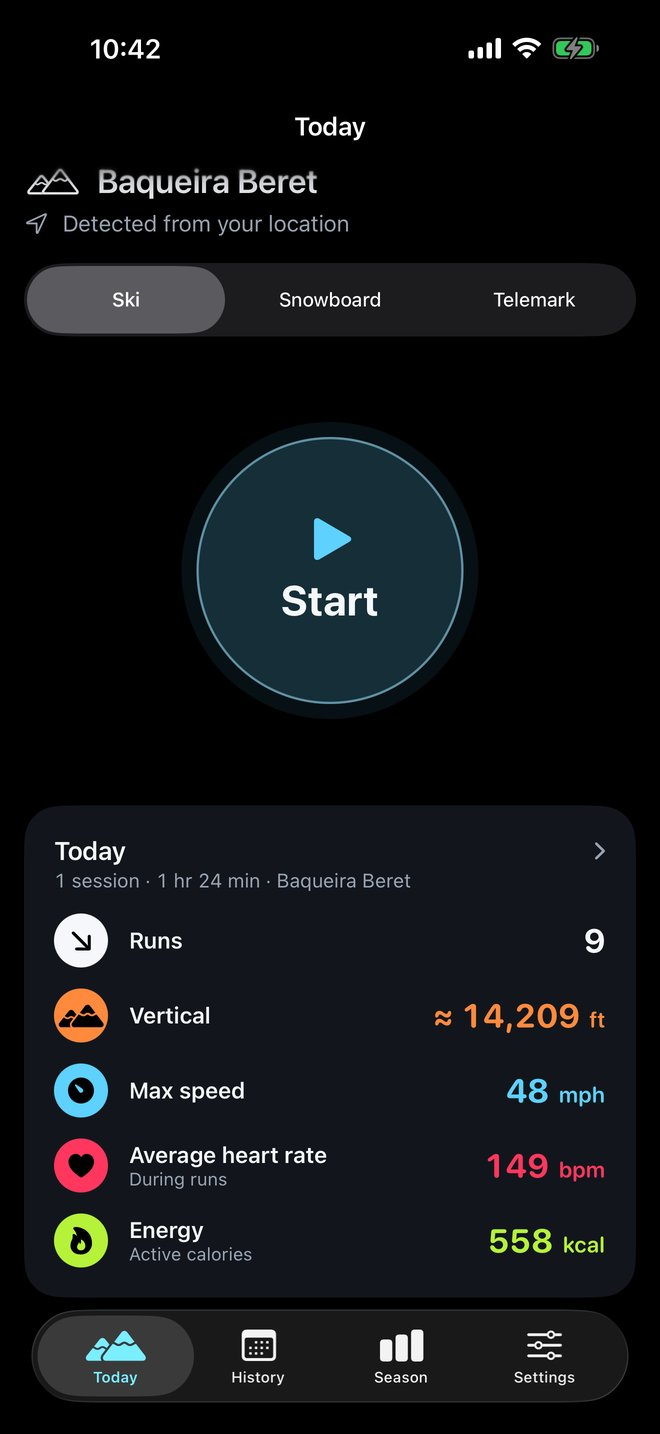
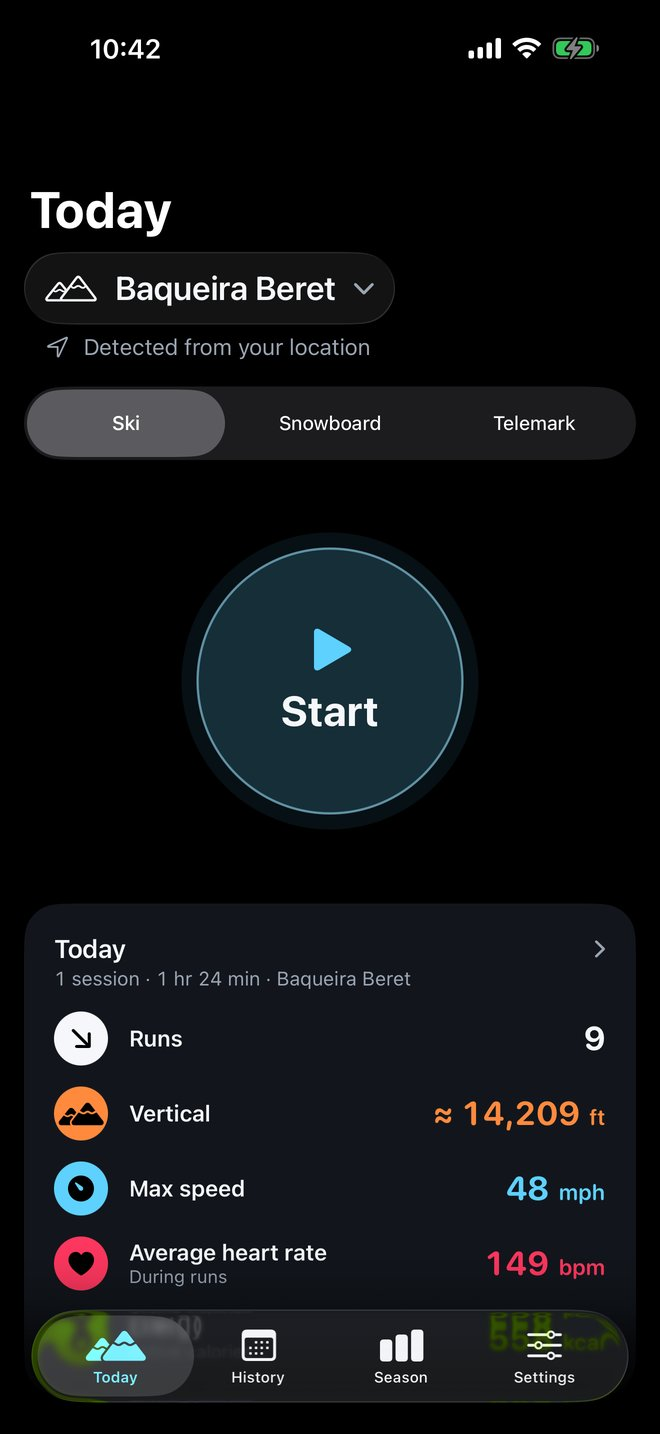
Portada: cabecera sin texto, Hoy nueva, estaciones destacadas, Salud y un solo mapa (#8)
Claude-Session: https://claude.ai/code/session_014E4hTQ2fxnWrmmEj9CFZkQ

diff --git a/en/index.html b/en/index.html
@@ -68,6 +68,27 @@
                gap: 12px 24px; justify-content: space-between; color: var(--secundario); font-size: 15px; margin-top: 0; }
   footer.pie nav { display: flex; gap: 20px; flex-wrap: wrap; }
 
+
+  /* Datos rápidos bajo el titular */
+  .datos-heroe { display: flex; justify-content: center; flex-wrap: wrap; gap: 8px 18px; margin-top: 18px; color: #c9d6df; font-size: 15px; font-weight: 600; }
+  .datos-heroe span + span::before { content: "·"; margin-right: 18px; color: var(--secundario); }
+
+  /* Estaciones */
+  .estaciones { position: relative; overflow: hidden; border-radius: 28px; margin-block: 24px 48px; padding: 56px 32px;
+                text-align: center; background: linear-gradient(160deg, #1f4250 0%, var(--superficie) 70%); }
+  .estaciones h2 { font-size: clamp(32px, 4.5vw, 48px); line-height: 1.08; margin: 10px 0 16px; text-wrap: balance; }
+  .estaciones h2 span { color: var(--cian); }
+  .estaciones > p { color: #c9d6df; font-size: 18px; max-width: 52ch; margin: 0 auto; }
+  .cifras { display: flex; justify-content: center; flex-wrap: wrap; gap: 16px 56px; margin: 36px 0 8px; }
+  .cifra strong { display: block; font-size: clamp(48px, 7vw, 72px); line-height: 1; letter-spacing: -0.02em; font-variant-numeric: tabular-nums; }
+  .cifra span { color: var(--secundario); font-weight: 600; }
+  .paises { display: flex; justify-content: center; flex-wrap: wrap; gap: 10px; margin-top: 28px; padding: 0; list-style: none; }
+  .paises li { border: 1px solid rgba(255, 255, 255, .16); border-radius: 999px; padding: 8px 16px; font-weight: 600; }
+  .paises li b { color: var(--naranja); font-variant-numeric: tabular-nums; margin-left: 6px; }
+  .boton { display: inline-block; margin-top: 32px; padding: 14px 26px; border-radius: 999px; background: var(--cian); color: #08222c;
+           font-weight: 700; text-decoration: none; }
+  .estaciones .nota { margin-top: 18px; font-size: 14px; color: var(--secundario); }
+
   @media (max-width: 760px) {
     .funcion { grid-template-columns: 1fr; gap: 32px; padding-block: 48px; text-align: center; }
     .funcion:nth-of-type(even) .texto { order: 0; }
@@ -86,6 +107,7 @@
     <span class="marca">SnowTracker</span>
     <h1>Every run,<br><span>counted.</span></h1>
     <p>Speed, vertical and every run of your ski day, on iPhone and Apple Watch.</p>
+    <div class="datos-heroe"><span>iPhone and Apple Watch</span><span>2,897 ski resorts</span><span>No accounts, no ads</span></div>
     <span class="pronto">Coming soon to the App Store</span>
   </div>
   <img class="cordillera" src="../img/cabecera.jpg" alt="" width="2400" height="1029">
@@ -109,11 +131,33 @@
       <span class="antetitulo">The map</span>
       <h2>Your whole day, <span>on the map.</span></h2>
       <p>The day’s route, colored by speed on Apple Maps, with every run numbered and, beneath it, the pistes by difficulty and the lifts. Tap a run and the map frames it. And if you want to relive it, play it back up to 240 times faster.</p>
-      <p class="secundario">Pistes for <a href="resorts/">2,897 ski resorts in 63 countries</a>, built into the app and available offline.</p>
     </div>
     <div class="telefonos">
       <div class="telefono"><img src="../img/en/02-mapa.jpg" alt="Satellite map of the day at Baqueira Beret with the runs and the route colored by speed" loading="lazy"></div>
-      <div class="telefono"><img src="../img/en/04b-bajada.jpg" alt="One run highlighted on the map and the rest dimmed" loading="lazy"></div>
+    </div>
+  </section>
+
+  <div class="estaciones">
+    <span class="antetitulo">Ski resorts</span>
+    <h2>Your resort’s pistes, <span>already in the app.</span></h2>
+    <p>Pistes by difficulty and lifts for ski resorts around the world are built into the app: you see them beneath your route even without coverage, and in Today the app recognizes the resort you’re at.</p>
+    <div class="cifras">
+      <div class="cifra"><strong>2,897</strong><span>ski resorts with pistes</span></div>
+      <div class="cifra"><strong>63</strong><span>countries</span></div>
+    </div>
+    <ul class="paises"><li>United States<b>428</b></li><li>Japan<b>372</b></li><li>Switzerland<b>266</b></li><li>Austria<b>223</b></li><li>France<b>195</b></li><li>Canada<b>180</b></li></ul>
+    <a class="boton" href="resorts/">Find your resort</a>
+    <p class="nota">Data: © OpenStreetMap contributors, under the ODbL license. <a href="osm-data/">Download the data</a>.</p>
+  </div>
+
+  <section class="funcion">
+    <div class="texto">
+      <span class="antetitulo">Today</span>
+      <h2>It knows which <span>resort you’re at.</span></h2>
+      <p>When you open the app, Today tells you which resort you’re at, what you’ve done so far today or, if you haven’t skied today, your last day: runs, vertical, max speed and, with Apple Watch, heart rate and kcal. Tap the resort to see nearby ones or search for another. Choose ski, snowboard or telemark and start.</p>
+    </div>
+    <div class="telefonos">
+      <div class="telefono"><img src="../img/en/06-hoy.jpg" alt="Today: Baqueira Beret, detected from your location, the Start button and the day card" loading="lazy"></div>
     </div>
   </section>
 
@@ -131,12 +175,12 @@
 
   <section class="funcion">
     <div class="texto">
-      <span class="antetitulo">Today</span>
-      <h2>It knows which <span>resort you’re at.</span></h2>
-      <p>When you open the app, Today tells you which resort you’re at, what you’ve done so far today or, if you haven’t skied today, your last day: runs, vertical, max speed and, with Apple Watch, heart rate and kcal. Choose ski, snowboard or telemark and start.</p>
+      <span class="antetitulo">Health</span>
+      <h2>Your heart rate, <span>run by run.</span></h2>
+      <p>With Apple Watch, each day keeps your average heart rate on runs, your max and your active kcal, plus a chart of your heart rate for the whole day with the runs marked.</p>
     </div>
     <div class="telefonos">
-      <div class="telefono"><img src="../img/en/06-hoy.jpg" alt="Today: Baqueira Beret, detected from your location, the Start button and the day card" loading="lazy"></div>
+      <div class="telefono"><img src="../img/en/05-salud.jpg" alt="Health for Saturday, February 14: 145 bpm average on runs, 166 bpm max, 992 active kcal and the heart rate chart" loading="lazy"></div>
     </div>
   </section>
 
@@ -192,7 +236,7 @@
 
   <footer class="pie">
     <span>SnowTracker · Marcos Velasco Fernández</span>
-    <nav><a href="support/">Support</a><a href="privacy/">Privacy</a><a href="mailto:marcosvelasco.iphoneapps@gmail.com?subject=SnowTracker">Contact</a><a href="../" hreflang="es" lang="es">Español</a></nav>
+    <nav><a href="support/">Support</a><a href="privacy/">Privacy</a><a href="osm-data/">OpenStreetMap data</a><a href="mailto:marcosvelasco.iphoneapps@gmail.com?subject=SnowTracker">Contact</a><a href="../" hreflang="es" lang="es">Español</a></nav>
   </footer>
 </div>
 

diff --git a/index.html b/index.html
@@ -68,6 +68,27 @@
                gap: 12px 24px; justify-content: space-between; color: var(--secundario); font-size: 15px; margin-top: 0; }
   footer.pie nav { display: flex; gap: 20px; flex-wrap: wrap; }
 
+
+  /* Datos rápidos bajo el titular */
+  .datos-heroe { display: flex; justify-content: center; flex-wrap: wrap; gap: 8px 18px; margin-top: 18px; color: #c9d6df; font-size: 15px; font-weight: 600; }
+  .datos-heroe span + span::before { content: "·"; margin-right: 18px; color: var(--secundario); }
+
+  /* Estaciones */
+  .estaciones { position: relative; overflow: hidden; border-radius: 28px; margin-block: 24px 48px; padding: 56px 32px;
+                text-align: center; background: linear-gradient(160deg, #1f4250 0%, var(--superficie) 70%); }
+  .estaciones h2 { font-size: clamp(32px, 4.5vw, 48px); line-height: 1.08; margin: 10px 0 16px; text-wrap: balance; }
+  .estaciones h2 span { color: var(--cian); }
+  .estaciones > p { color: #c9d6df; font-size: 18px; max-width: 52ch; margin: 0 auto; }
+  .cifras { display: flex; justify-content: center; flex-wrap: wrap; gap: 16px 56px; margin: 36px 0 8px; }
+  .cifra strong { display: block; font-size: clamp(48px, 7vw, 72px); line-height: 1; letter-spacing: -0.02em; font-variant-numeric: tabular-nums; }
+  .cifra span { color: var(--secundario); font-weight: 600; }
+  .paises { display: flex; justify-content: center; flex-wrap: wrap; gap: 10px; margin-top: 28px; padding: 0; list-style: none; }
+  .paises li { border: 1px solid rgba(255, 255, 255, .16); border-radius: 999px; padding: 8px 16px; font-weight: 600; }
+  .paises li b { color: var(--naranja); font-variant-numeric: tabular-nums; margin-left: 6px; }
+  .boton { display: inline-block; margin-top: 32px; padding: 14px 26px; border-radius: 999px; background: var(--cian); color: #08222c;
+           font-weight: 700; text-decoration: none; }
+  .estaciones .nota { margin-top: 18px; font-size: 14px; color: var(--secundario); }
+
   @media (max-width: 760px) {
     .funcion { grid-template-columns: 1fr; gap: 32px; padding-block: 48px; text-align: center; }
     .funcion:nth-of-type(even) .texto { order: 0; }
@@ -86,6 +107,7 @@
     <span class="marca">SnowTracker</span>
     <h1>Cada bajada,<br><span>contada.</span></h1>
     <p>Velocidad, desnivel y cada bajada de tu día de esquí, en el iPhone y el Apple Watch.</p>
+    <div class="datos-heroe"><span>iPhone y Apple Watch</span><span>2.897 estaciones</span><span>Sin cuentas ni publicidad</span></div>
     <span class="pronto">Próximamente en el App Store</span>
   </div>
   <img class="cordillera" src="img/cabecera.jpg" alt="" width="2400" height="1029">
@@ -109,11 +131,33 @@
       <span class="antetitulo">El mapa</span>
       <h2>Tu día entero, <span>en el mapa.</span></h2>
       <p>La ruta del día, coloreada por velocidad sobre los mapas de Apple, con cada bajada numerada y, debajo, las pistas por dificultad y los remontes. Toca una bajada y el mapa la encuadra sola. Y si quieres revivirla, reprodúcela hasta 240 veces más rápido.</p>
-      <p class="secundario">Pistas de <a href="estaciones/">2.897 estaciones en 63 países</a>, dentro de la app y sin conexión.</p>
     </div>
     <div class="telefonos">
       <div class="telefono"><img src="img/02-mapa.jpg" alt="Mapa del día en Baqueira Beret, en satélite, con las pistas y la ruta coloreada por velocidad" loading="lazy"></div>
-      <div class="telefono"><img src="img/04b-bajada.jpg" alt="Una bajada destacada en el mapa y el resto atenuado" loading="lazy"></div>
+    </div>
+  </section>
+
+  <div class="estaciones">
+    <span class="antetitulo">Estaciones</span>
+    <h2>Las pistas de tu estación, <span>ya en la app.</span></h2>
+    <p>Las pistas por dificultad y los remontes de las estaciones de todo el mundo van dentro de la app: se ven debajo de tu ruta aunque no tengas cobertura, y en Hoy la app reconoce la estación en la que estás.</p>
+    <div class="cifras">
+      <div class="cifra"><strong>2.897</strong><span>estaciones con pistas</span></div>
+      <div class="cifra"><strong>63</strong><span>países</span></div>
+    </div>
+    <ul class="paises"><li>Estados Unidos<b>428</b></li><li>Japón<b>372</b></li><li>Suiza<b>266</b></li><li>Austria<b>223</b></li><li>Francia<b>195</b></li><li>Canadá<b>180</b></li></ul>
+    <a class="boton" href="estaciones/">Busca tu estación</a>
+    <p class="nota">Datos: © colaboradores de OpenStreetMap, con licencia ODbL. <a href="datos-osm/">Descarga los datos</a>.</p>
+  </div>
+
+  <section class="funcion">
+    <div class="texto">
+      <span class="antetitulo">Hoy</span>
+      <h2>Sabe en qué <span>estación estás.</span></h2>
+      <p>Al abrir la app, Hoy te dice en qué estación estás, lo que llevas en el día o, si hoy no has esquiado, tu último día: bajadas, desnivel, velocidad máxima y, con Apple Watch, pulso y kcal. Toca la estación para ver las cercanas o buscar otra. Elige esquí, snowboard o telemark y empieza.</p>
+    </div>
+    <div class="telefonos">
+      <div class="telefono"><img src="img/06-hoy.jpg" alt="Hoy: Baqueira Beret, detectada por tu ubicación, el botón Empezar y la tarjeta del día" loading="lazy"></div>
     </div>
   </section>
 
@@ -131,12 +175,12 @@
 
   <section class="funcion">
     <div class="texto">
-      <span class="antetitulo">Hoy</span>
-      <h2>Sabe en qué <span>estación estás.</span></h2>
-      <p>Al abrir la app, Hoy te dice en qué estación estás, lo que llevas en el día o, si hoy no has esquiado, tu último día: bajadas, desnivel, velocidad máxima y, con Apple Watch, pulso y kcal. Elige esquí, snowboard o telemark y empieza.</p>
+      <span class="antetitulo">Salud</span>
+      <h2>Tu pulso, <span>bajada a bajada.</span></h2>
+      <p>Con el Apple Watch, cada día guarda tu pulso medio en las bajadas, el máximo y las kcal activas, y la gráfica del pulso de todo el día con las bajadas marcadas.</p>
     </div>
     <div class="telefonos">
-      <div class="telefono"><img src="img/06-hoy.jpg" alt="Hoy: Baqueira Beret, detectada por tu ubicación, el botón Empezar y la tarjeta del día" loading="lazy"></div>
+      <div class="telefono"><img src="img/05-salud.jpg" alt="Salud del sábado 14 de febrero: 145 ppm de media en las bajadas, 166 ppm de máximo, 992 kcal activas y la gráfica del pulso" loading="lazy"></div>
     </div>
   </section>
 
@@ -192,7 +236,7 @@
 
   <footer class="pie">
     <span>SnowTracker · Marcos Velasco Fernández</span>
-    <nav><a href="soporte/">Soporte</a><a href="privacidad/">Privacidad</a><a href="mailto:marcosvelasco.iphoneapps@gmail.com?subject=SnowTracker">Contacto</a><a href="en/" hreflang="en" lang="en">English</a></nav>
+    <nav><a href="soporte/">Soporte</a><a href="privacidad/">Privacidad</a><a href="datos-osm/">Datos de OpenStreetMap</a><a href="mailto:marcosvelasco.iphoneapps@gmail.com?subject=SnowTracker">Contacto</a><a href="en/" hreflang="en" lang="en">English</a></nav>
   </footer>
 </div>
 

diff --git a/README.md b/README.md
@@ -9,6 +9,8 @@ Política de privacidad y soporte de la app SnowTracker, publicadas con GitHub P
 | Privacidad | https://marcosvelascogithub.github.io/snowtracker-web/privacidad/ | https://marcosvelascogithub.github.io/snowtracker-web/en/privacy/ |
 | Datos de OpenStreetMap (ODbL) | https://marcosvelascogithub.github.io/snowtracker-web/datos-osm/ | https://marcosvelascogithub.github.io/snowtracker-web/en/osm-data/ |
 
-Las capturas de la portada son las capturas en bruto del iPhone de 6,9" de `docs/app-store/` del repositorio de la app, a la mitad de tamaño: en `img/`, en español, y en `img/en/`, en inglés. La cabecera (`img/cabecera.jpg`) no lleva texto y vale para las dos.
+Las capturas de la portada son las capturas en bruto del iPhone de 6,9" de `docs/app-store/` del repositorio de la app, a la mitad de tamaño: en `img/`, en español, y en `img/en/`, en inglés. La cabecera (`img/cabecera.jpg`, 2400 × 1029) no lleva texto y vale para las dos: sale de `cabecera()` de `docs/app-store/scripts/componer-cabecera.py` con el titular vacío.
+
+Las cifras de estaciones de la portada (total, países y los seis países con más estaciones) salen de `datos/estaciones.json`; se actualizan cuando cambia la lista.
 
 Los ficheros de `datos-osm/` son los de `SnowTracker/Pistes/` de la app, publicados por la licencia ODbL (apartado 4.6). Se sustituyen con cada versión que regenere los datos, y se actualiza la fecha del extracto en las dos páginas.
